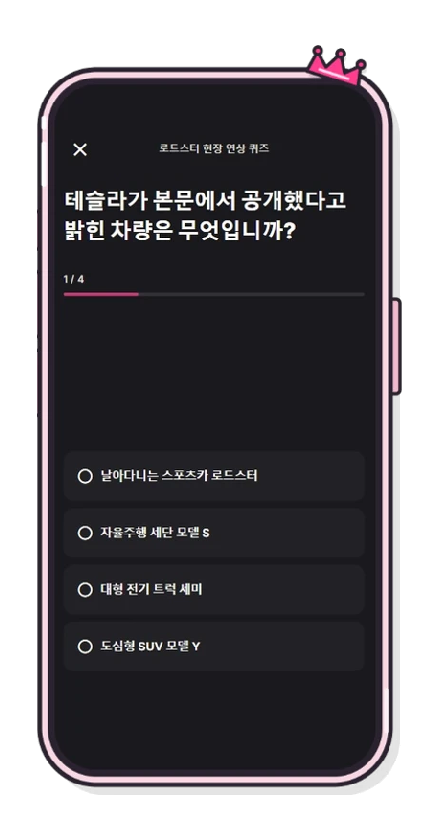
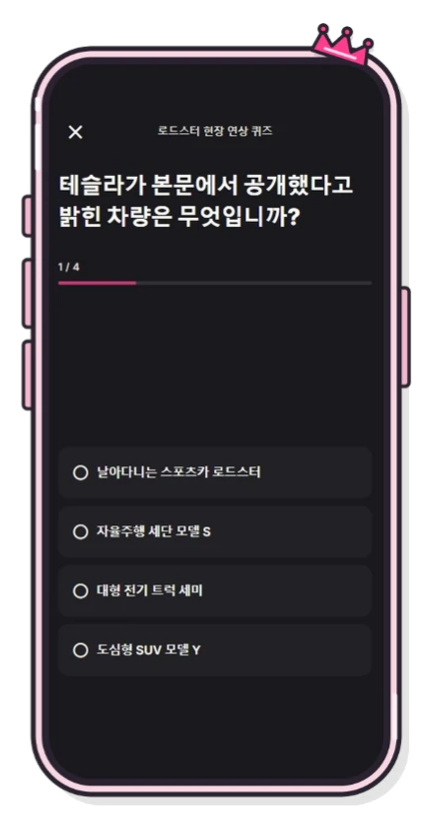
docs: README 화면 갤러리의 폰 크기 통일
- 표마다 이미지 너비가 달라(핵심 142px, 크리에이터·AI 118px) 화면에서 폰 크기가 달라 보여서 모두 142px로 맞춤
- 폰 7장을 조직 README의 UI 이미지에서 잘라 몸체 크기·위치가 같은 이미지로 교체(파일명·크기 440×840 유지)

diff --git a/README.md b/README.md
@@ -31,7 +31,7 @@
 
 | 맞춤 크리에이터 추천 | Creator Space · 게시물 | YouTube 구독 인증 미션 | AI 퀴즈 미션 |
 | :---: | :---: | :---: | :---: |
-| <img src="./docs/assets/readme/fe/recommendations.png" alt="맞춤 크리에이터 추천 화면" width="118" /> | <img src="./docs/assets/readme/fe/creator-space.png" alt="Creator Space 게시물 및 댓글 화면" width="118" /> | <img src="./docs/assets/readme/fe/youtube-verification.png" alt="YouTube 구독 인증 화면" width="118" /> | <img src="./docs/assets/readme/fe/ai-quiz.png" alt="AI 퀴즈 응시 화면" width="118" /> |
+| <img src="./docs/assets/readme/fe/recommendations.png" alt="맞춤 크리에이터 추천 화면" width="142" /> | <img src="./docs/assets/readme/fe/creator-space.png" alt="Creator Space 게시물 및 댓글 화면" width="142" /> | <img src="./docs/assets/readme/fe/youtube-verification.png" alt="YouTube 구독 인증 화면" width="142" /> | <img src="./docs/assets/readme/fe/ai-quiz.png" alt="AI 퀴즈 응시 화면" width="142" /> |
 | 관심사 기반 추천·도킹 | 게시물·좋아요·댓글 | 구독 인증 이미지 제출 | 퀴즈 응시·보상 획득 |
 
 <br />
